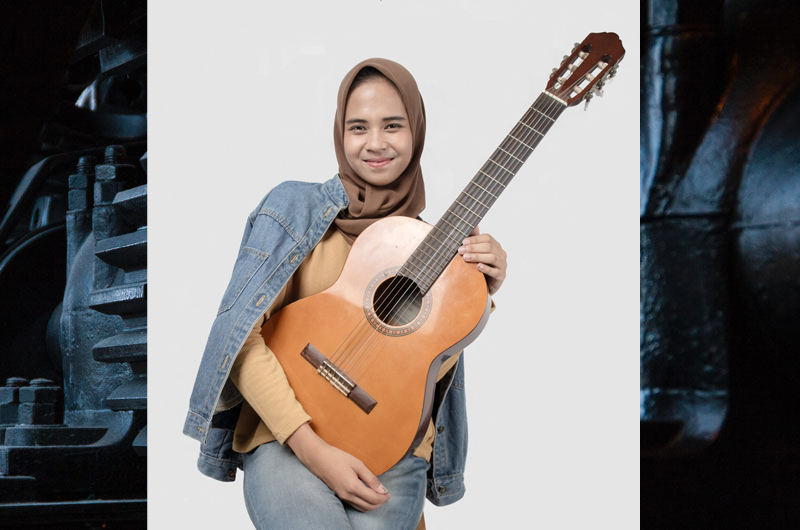
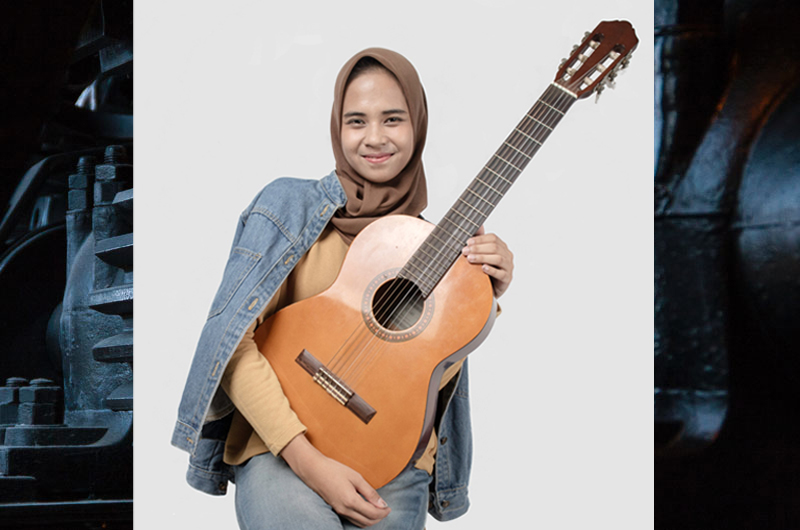
update porto

Changed region(s): [[0.1562, 0.0, 0.8438, 1.0]]

diff --git a/resources/views/home.blade.php b/resources/views/home.blade.php
@@ -99,7 +99,7 @@
         <div class="container">
           <div class="row align-items-center justify-content-center text-center">
             <div class="col-md-10">
-              <h2 class="mb-5">PictStorage<br><strong>Photography and Videography</strong></h2>
+              <h2 class="mb-5">1<sup>st</sup> Call-in<br><strong>Photo Studio</strong></h2>
               <p>
                 <a href="#" class="btn btn-primary py-3 px-5 rounded-0">Book Now</a>
               </p>
@@ -157,22 +157,16 @@
         <div class="row no-gutters align-items-stretch h-100">
           <div class="col-lg-6">
             <div class="row no-gutters align-items-stretch h-100 half-sm">
-              <div class="col-md-6 bg-image bg-sm-height" style="background-image: url('images/img_4_colored.jpg');" data-aos="fade" data-aos-delay="0"></div>
-              <div class="col-md-6 bg-light text">
-                <div class="p-4">
-                  <h2 class="h5 mb-3 text-black line-height-sm">Automative Manufacturing</h2>
-                  <p>Lorem ipsum dolor sit amet consectetur adipisicing elit. In ipsum error perspiciatis odit ullam officia. Lorem ipsum dolor sit amet, consectetur adipisicing elit. Laudantium voluptatum vel natus, repellat at optio.</p>
-                  <p class="mb-0"><a href="#" class=""><small class="text-uppercase font-weight-bold text-black">Read More</small></a></p>
-                </div>
-              </div>
+              <div class="col-md-6 bg-image bg-sm-height" style="background-image: url('images/works_ayu4.jpg');" data-aos="fade" data-aos-delay="0"></div>
+              <div class="col-md-6 bg-image bg-sm-height" style="background-image: url('images/works_ayu3.jpg');" data-aos="fade" data-aos-delay="0"></div>
             </div>
           </div>
           <div class="col-lg-6">
             <div class="row no-gutters align-items-stretch h-100 half-sm">
-              <div class="col-md-6 bg-image order-md-2 order-lg-1 bg-sm-height" style="background-image: url('images/img_1_colored.jpg');" data-aos="fade" data-aos-delay="200"></div>
+              <div class="col-md-6 bg-image order-md-2 order-lg-1 bg-sm-height" style="background-image: url('images/works_ayu2.jpg');" data-aos="fade" data-aos-delay="200"></div>
               <div class="col-md-6 bg-light text order-md-1 order-lg-2">
                 <div class="p-4">
-                  <h2 class="h5 mb-3 text-black line-height-sm">Mechanical Engineering</h2>
+                  <h2 class="h5 mb-3 text-black line-height-sm">Engagement</h2>
                   <p>Lorem ipsum dolor sit amet consectetur adipisicing elit. In ipsum error perspiciatis odit ullam officia. Lorem ipsum dolor sit amet, consectetur adipisicing elit. Aperiam, cupiditate officia recusandae velit sint totam.</p>
                   <p class="mb-0"><a href="#" class=""><small class="text-uppercase font-weight-bold text-black">Read More</small></a></p>
                 </div>
@@ -182,22 +176,16 @@
 
           <div class="col-lg-6">
             <div class="row no-gutters align-items-stretch h-100 half-sm">
-              <div class="col-md-6 bg-image order-md-1 order-lg-2 bg-sm-height" style="background-image: url('images/img_2_colored.jpg');" data-aos="fade" data-aos-delay="300"></div>
-              <div class="col-md-6 bg-light text order-md-2 order-lg-1">
-                <div class="p-4">
-                  <h2 class="h5 mb-3 text-black line-height-sm">Oil &amp; Gas Energy</h2>
-                  <p>Lorem ipsum dolor sit amet consectetur adipisicing elit. In ipsum error perspiciatis odit ullam officia. Lorem ipsum dolor sit amet, consectetur adipisicing elit. Alias fugiat facilis quasi ratione ducimus ipsam!</p>
-                  <p class="mb-0"><a href="#" class=""><small class="text-uppercase font-weight-bold text-black">Read More</small></a></p>
-                </div>
-              </div>
+              <div class="col-md-6 bg-image order-md-1 order-lg-2 bg-sm-height" style="background-image: url('images/works_studio1.jpg');" data-aos="fade" data-aos-delay="300"></div>
+              <div class="col-md-6 bg-image order-md-1 order-lg-2 bg-sm-height" style="background-image: url('images/works_studio2.jpg');" data-aos="fade" data-aos-delay="300"></div>
             </div>
           </div>
           <div class="col-lg-6">
             <div class="row no-gutters align-items-stretch h-100 half-sm">
-              <div class="col-md-6 bg-image order-md-2 bg-sm-height" style="background-image: url('images/img_3_colored.jpg');" data-aos="fade" data-aos-delay="400"></div>
+              <div class="col-md-6 bg-image order-md-2 bg-sm-height" style="background-image: url('images/works_studio3.jpg');" data-aos="fade" data-aos-delay="400"></div>
               <div class="col-md-6 bg-light text order-md-1">
                 <div class="p-4">
-                  <h2 class="h5 mb-3 text-black line-height-sm">Industrial Construction</h2>
+                  <h2 class="h5 mb-3 text-black line-height-sm">Photo Studio</h2>
                   <p>Lorem ipsum dolor sit amet consectetur adipisicing elit. In ipsum error perspiciatis odit ullam officia. Lorem ipsum dolor sit amet, consectetur adipisicing elit. Laudantium ullam est alias minus, expedita autem.</p>
                   <p class="mb-0"><a href="#" class=""><small class="text-uppercase font-weight-bold text-black">Read More</small></a></p>
                 </div>
